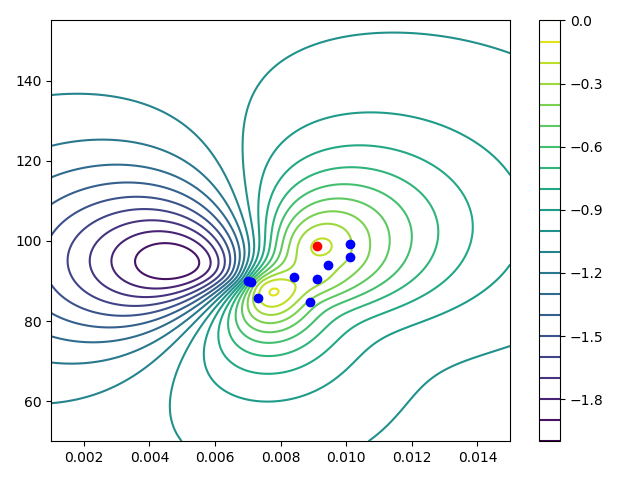
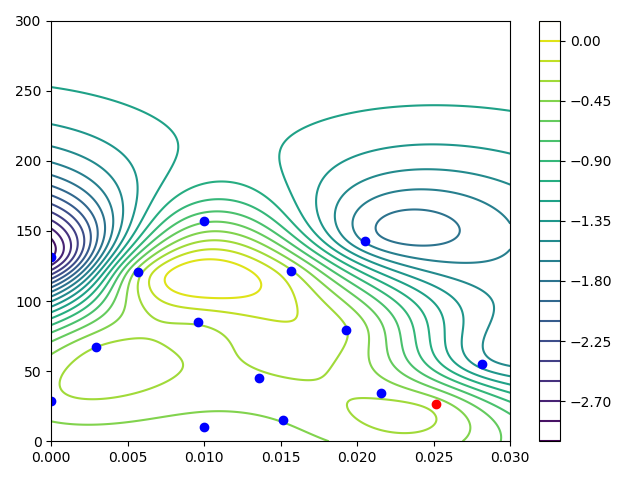
Documenting single inverter example in userguide

diff --git a/docs/parts/user_guide/examples.md b/docs/parts/user_guide/examples.md
@@ -39,55 +39,122 @@ Clicking through the components until reaching the variable will show the whole 
 The parameters of the controller like the control frequency delta_t, the voltage, frequency or droop characteristics can be set directly in the main function. 
  
  
-####Berkenkamp.py
+####single_inverter_current_control_safe_opt.py
 
 
-This example uses an optimization methode developed by Berkenkamp et al. (https://arxiv.org/abs/1509.01066) called Safe
-Controller Optimization - safeopt - which is using a Gaussian process and Bayesian optimization to safely determine 
-"optimal" controller parameters. 
-The application is an three phase inverter connected via filters (lc1 and lc2) to a load (rl1) and is shown in the 
+In this example a three phase inverter is supplying via a filter (lc1) a load (rl1) like shown in the 
 figure below.
+From that model a FMU is built to create the environment.
 
 ![](../pictures/Modell.png)
+
+An optimization methode developed by Berkenkamp et al. (https://arxiv.org/abs/1509.01066) called Safe
+Controller Optimization - safeopt - is used which takes a Gaussian process and Bayesian optimization to safely determine 
+"optimal" controller parameters. 
+The goal of the standard PI current controller is to supply a 15 A d-current to the load. 
+
 
 The [generated FMU](fmu.html) is used in the environment to build up a gym env like the examples from OpenAI Gym 
 (https://gym.openai.com/). 
 The gym enviroment is defined in (examples/berkenkamp.py, line 103).
 It generates a gym environment using 
- - reward function (line 34)
+ - reward function (line 51)
  - Plotting the inductor values (current) from the lc1-filter (which should be controlled) like shown in the figure below
- - Simulating 200 timesteps of delta_t
- - Of the FMU grid.network_singleInverter.fmu (Generated from the model in the plot abouve)
+ - Simulating 300 timesteps of delta_t of the FMU grid.network_singleInverter.fmu (Generated from the model in the plot abouve)
  - Using the setpoints for the inverters (modulation indices) i1p{1,2,3} as inputs
  - and the inductor currents and capactitor voltages of lc1-filter as ouptuts
  
-![](../pictures/i_abc_bk.png)
+![](../pictures/i_abc_bk_kp15_Ki121.png)
 
 The agent used in this simple RL-example is taken from the class __SafeOptAgent__.
 It contains the controller a __MultiPhaseDQCurrentSourcingController__, which consists of multiphase (3) PI controllers 
 to controll the current across the inductor of the lc1-filter. 
 There are also droop controllers implemented to calculate e.g. the frequency drop due to load.
 The agent's task is to find better parameters for the current controllers (Kp & Ki). 
-Therefore they are defined as mutable_params (examples/berkenkamp.py, line 79) to adopt them between the episodes.
+Therefore they are defined as mutable_params (e.g. examples/single_inverter_current_control_safe_opt.py, line 126) to 
+adopt them between the episodes.
 The safeopt algorithm uses a Gaussian process to estimate the performance of the controller. 
-Therefore the bounds (examples/berkenkamp.py, line 65) and the lengthscale (examples/berkenkamp.py, line 69) for the 
+Therefore the bounds (e.g. examples/single_inverter_current_control_safe_opt.py, line 97) and the 
+lengthscale (eg. examples/single_inverter_current_control_safe_opt.py, line 98) for the 
 parameters (Kp and Ki) have to be defined.  
-If only one parameter should be adopted the dimension has to be reduced here and the mutable_params have to be changed. 
+
+One can adjust one of the parameters (Kp or Ki) (1D) or both of them (2D) using the algorithm.
+Therefore the parameters in line 28-30 have to be adjusted:
+- To adjust only Kp set __adjust_Kp_only__ == True (and all other parametes as False!)
+- To adjust only Ki set __adjust_Ki_only__ == True (and all other parametes as False!)
+- To adjust only Kp and Ki set __adjust_Kp_and_Ki__ == True (and all other parametes as False!)
+
 Due to safeopt the agent need a safe starting point (Kp and Ki). Then it tries to calculate safely parameters with 
 better performance.
 The performance is calculated using the reward function from the enviroment defined in the function 
-(examples/berkenkamp.py, line 34). 
+(examples/single_inverter_current_control_safe_opt.py, line 51). 
 There the MSE from the measured currents and the setpoints are calculated. 
 Additionally a barrier function is used to avoid over-currents. 
-The function can be adjusted using the parameter mu in (examples/berkenkamp.py, line 28)
-In case of an over-current the episode is aborted and a performance of the doubled initial reward (negative) is given 
-back. 
-The safe threshold for the agent is set as 20 % less of the inital performance. (agents/safeopt.py, line 85)
+The function can be adjusted using the parameter mu in (examples/single_inverter_current_control_safe_opt.py, line 44).
+In case of an over-current the episode is aborted and a performance of the abort_reward-times (line 144) initial reward 
+(negative) is given back. 
+The safe threshold for the agent is set as safe_threshold-times less of the inital performance. (agents/safeopt.py, line 85)
+E.g. safe_threshold = 1.2 and the inital reward is -10 the safe threshold would be -12.
 
 In the end of the script a __Runner__ is used to execute 10 episodes using the agent to control the enviroment. 
-For every episode the controlled currents and the performance function as a function of Kp and Ki are plotted.
-In the figure below this performance function (z-axis) is shown after 10 episodes. (x-axis: Kp, y-axis: Ki).
+For every episode the controlled currents and the performance function as a function of Kp and/or Ki are plotted.
 
-![](../pictures/kp_kp_J.png)
+Some exemplary results are shown below:
 
-The results of the algorithm are printed into the console 
+- If the parameter __adjust_Kp_only__ is True, the agent tries to find an optimal value for the proportional gain (Kp)
+ of the controller in the range of [0, 0.03] (bounds, line 87) with a lengthscale of 0.01 (line 88).
+ In the figure below on the x-axis is the value for Kp and on the y-axis the performance value calculated using the 
+ reward function mentioned above. 
+
+ 
+![](../pictures/kp_J.png)
+
+- If the parameter __adjust_Ki_only__ is True, the agent tries to find an optimal value for the integral gain (Ki)
+ of the controller in the range of [0, 300] (bounds, line 92) with a lengthscale of 50 (line 93).
+ In the figure below on the x-axis is the value for Ki and on the y-axis the performance value calculated using the 
+ reward function mentioned above. 
+
+ 
+![](../pictures/ki_J.png)
+
+ The - due to the algorithm - "unsafe" point on the right (for Kp as well as for Ki) is not due to overcurrent but due 
+ to bad performance due to  permanent control error.
+ The resulting currents for Kp = 0.01 and Ki = 0 is shown in the picture below.
+ Due to the high error compared to the reference value (15 A d-current), the performance is as bad as the algorithm 
+ deifnes it as unsafe - in comparison to the performance reached using the intial controller parameters. 
+ 
+ 
+ ![](../pictures/i_abc_ki_J_bad.png) 
+
+
+ - If the parameter __adjust_Kp_and_Ki__ is True, the agent tries to find an optimal value for the propotional gain (Kp)
+  as well as for the integral gain (Ki) of the controller in the ranges of [0, 0.03] and a lengthscale of 0.01 for Kp 
+  and a range of [0, 300] and a lengthscale of 50 for Ki.
+ In the figure below on the x-axis is the value for Kp, the y-axis the value for Ki and the z-axis the performance value
+  calculated using the reward function. 
+
+![](../pictures/kp_ki_J.png)
+
+The results of the algorithm are printed into the console in the form like below:
+
+Iteration, performance J, Params [Kp, Ki]
+
+           J                                      Params
+    0  -0.527522                                [0.01, 10.0]
+    1  -0.442648    [0.01517286546392185, 14.85163114970222]
+    2  -0.318154    [0.01426989823624961, 44.96747682456248]
+    3  -0.296940   [0.007935547159879385, 63.12800825929393]
+    4  -0.286636    [0.01482713453607815, 88.70170996759624]
+    5  -0.286815  [0.006770598304777539, 108.12303673537075]
+    6  -0.280167  [0.013261084415467694, 135.24448051372738]
+    7  -0.313204   [0.02201710533671064, 56.446583269542394]
+    8  -1.387003  [0.022868977920736434, 108.40140778199653]
+    9  -0.304403   [0.002145673177669012, 55.14569829606201]
+    10 -0.480421   [0.026197353734745858, 22.29566509028389]
+    11 -1.097157  [0.0055262530542335535, 157.4879776902759]
+    12 -0.391706                    [0.0, 17.86728037560901]
+    13 -1.307038                    [0.0, 106.0724160092763]
+    14 -1.561142                    [0.03, 42.1020413015999]
+    
+The best performance in this short example of -0.280167 produces the parameterset of Kp = 0.0132... 
+and Ki = 135.244...
